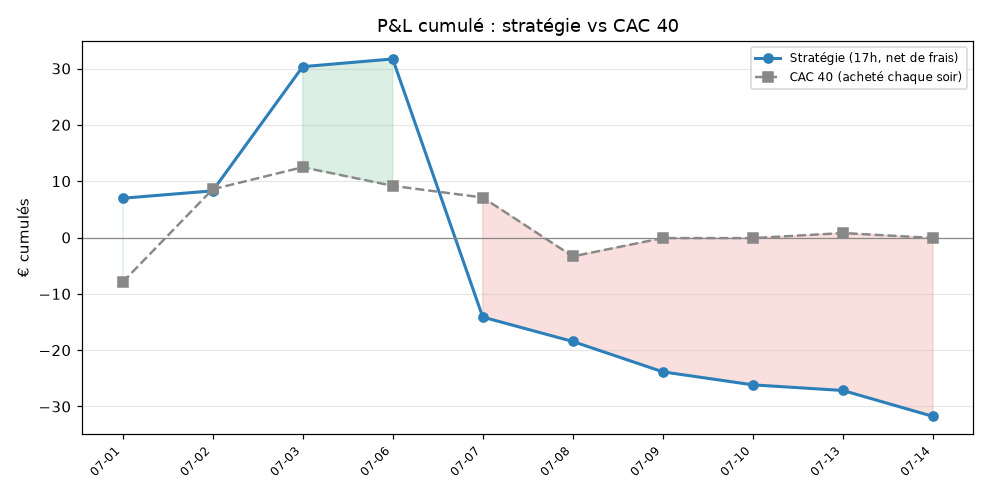
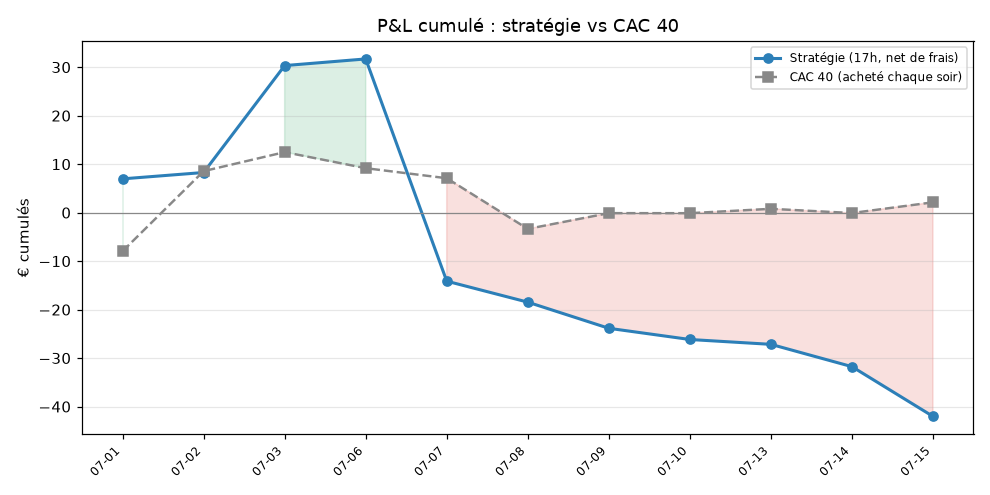
Analyse du 2026-07-15

diff --git a/reports/rapport_2026-07-15.md b/reports/rapport_2026-07-15.md
@@ -1,0 +1,117 @@
+# Rapport du Wednesday 15 July 2026
+
+### Évaluation des achats de la séance précédente
+
+**VRLA.PA — Verallia**  (acheté le 2026-07-14)
+- Prix d'entrée (clôture veille) : 20.38€
+- Revente à l'ouverture (09:00) : 🔴 20.26€  (-0.59%  soit -2.94€)
+- Revente 1re demi-heure (09:30) : 🔴 20.18€  (-0.98%  soit -4.91€)
+- Revente mi-journée (13:00) : 🔴 19.96€  (-2.06%  soit -10.30€)
+- Revente à 17h : 🔴 20.18€  (-0.98%  soit -4.91€)
+
+**LR.PA — Legrand**  (acheté le 2026-07-14)
+- Prix d'entrée (clôture veille) : 142.00€
+- Revente à l'ouverture (09:00) : 🟢 142.70€  (+0.49%  soit +2.46€)
+- Revente 1re demi-heure (09:30) : 🔴 141.15€  (-0.60%  soit -2.99€)
+- Revente mi-journée (13:00) : 🟢 142.10€  (+0.07%  soit +0.35€)
+- Revente à 17h : 🔴 141.05€  (-0.67%  soit -3.35€)
+
+**Total du portefeuille (somme des positions évaluées) :**
+- Ouverture : 🔴 -0.48€
+- 1re demi-heure : 🔴 -7.90€
+- Mi-journée : 🔴 -9.95€
+- 17h : 🔴 -8.26€
+
+### Sélection du soir (marche à blanc)
+
+_Séance parisienne calme et légèrement positive (CAC +0.23%), portée par un vent porteur venu de Wall Street ce soir (Nasdaq +1.16%, S&P +0.59%, VIX en repli à 16). Peu de flux acheteurs francs sur la place : quelques clôtures près des plus-hauts avec volume correct, mais la tape US verte doit rester un contexte, pas une thèse. Après une série de petites pertes overnight, je reste sélectif et modeste sur les tailles de conviction._
+
+**S30.PA — Solutions 30**  (conviction 54/100)
+- Achat papier : 500€ au cours ~17h de 0.58€
+- Catalyseur : Prolongation d'un flux acheteur propre au titre matérialisé par la meilleure clôture près du plus-haut de la shortlist avec le ratio de volume le plus élevé.
+- Raisonnement : S30 affiche le meilleur ratio de volume relatif de la shortlist (0.88x) combiné à une clôture au plus-haut (0.89) et une hausse mesurée du jour (+2.28%), sans être sur-étendu (5j +6.2%). Ce profil de force tranquille avec flux net acheteur est exactement le mécanisme recherché, indépendamment de la tape US. Le vent porteur du Nasdaq ne fait qu'ajouter au décor.
+- ⚠ Risque : Micro-cap très volatile (cours ~0.58€) où les mouvements overnight peuvent être erratiques ; le volume absolu reste modeste.
+
+**NK.PA — Imerys**  (conviction 49/100)
+- Achat papier : 500€ au cours ~17h de 22.14€
+- Catalyseur : Momentum de clôture au plus-haut (0.88) avec volume au-dessus de la médiane de la shortlist, dans un secteur matériaux distinct de S30.
+- Raisonnement : Imerys clôture près de son plus-haut (0.88) avec un volume relatif honorable (0.57x) et une progression saine (+2.03% jour, +6.54% sur 5j) sans excès parabolique. Le flux acheteur propre au titre est le principal argument, et le secteur matériaux offre une diversification nette par rapport à Solutions 30.
+- ⚠ Risque : Volume seulement modéré et valeur cyclique sensible aux nouvelles macro/Chine ; le signal est plus faible que le premier choix.
+
+_Aucun ordre réel n'a été passé. Simulation uniquement._
+
+### Tableau de bord — synthèse sur tout l'historique
+
+Positions évaluées : **17** (sur 19 enregistrées)
+
+| Scénario de sortie | P&L cumulé | Rendement moyen | Taux de réussite |
+|---|---:|---:|---:|
+| Ouverture (09:00) | 🟢 +1.58€ | +0.02% | 59% (10/17) |
+| 1re demi-heure (09:30) | 🔴 -24.49€ | -0.29% | 41% (7/17) |
+| Mi-journée (13:00) | 🔴 -32.71€ | -0.38% | 41% (7/17) |
+| 17h | 🔴 -25.02€ | -0.29% | 35% (6/17) |
+
+**Meilleure stratégie de sortie a posteriori : Ouverture (09:00)** (+1.58€ cumulés).
+
+Détail par scénario :
+- Ouverture (09:00) — meilleur : STLAP.PA (+1.63%, 2026-06-30) | pire : STMPA.PA (-3.33%, 2026-07-06)
+- 1re demi-heure (09:30) — meilleur : VRLA.PA (+3.53%, 2026-07-02) | pire : STMPA.PA (-4.18%, 2026-07-06)
+- Mi-journée (13:00) — meilleur : VRLA.PA (+4.05%, 2026-07-02) | pire : STMPA.PA (-5.51%, 2026-07-06)
+- 17h — meilleur : VRLA.PA (+4.66%, 2026-07-02) | pire : STMPA.PA (-7.45%, 2026-07-06)
+
+## Métriques ajustées du risque (scénario 17h, net de frais)
+
+_Basé sur 11 jour(s) évalué(s). Total net : -42.02€._
+
+| Métrique | Valeur | Lecture |
+|---|---:|---|
+| Sharpe (annualisé) | -5.22 | >1 bon, >2 excellent |
+| Sortino (annualisé) | -4.55 | pénalise la baisse |
+| Max drawdown | -73.72€ | pire creux cumulé |
+| Profit factor | 0.43 | gains/pertes, >1,5 solide |
+| Taux de réussite | 36% | jours gagnants |
+| Espérance / jour | -3.82€ | gain moyen par séance |
+| Gain moyen | 7.92€ | sur jours gagnants |
+| Perte moyenne | -10.53€ | sur jours perdants |
+
+**Significativité de l'alpha vs CAC 40 :**
+
+- Alpha moyen/jour : -0.496% (t-stat -0.93)
+- IC 95 % (bootstrap) : [-1.590% ; +0.402%]
+
+⚪ **Alpha non distinguable de zéro** (IC [-1.590% ; +0.402%] contient 0). Pas encore de preuve d'un edge — continue de mesurer.
+
+## Tableau de bord mensuel
+
+_Frais d'aller-retour estimés : 0.20% par position (P&L net au 17h)._
+
+| Mois | Jours | Ouverture | 9h30 | Midi | 17h (brut) | 17h (net) | Réussite 17h |
+|---|---:|---:|---:|---:|---:|---:|---:|
+| 2026-07 | 11 | 🟢 +1.58€ | 🔴 -24.49€ | 🔴 -32.71€ | 🔴 -25.02€ | 🔴 -42.02€ | 36% |
+
+**Alpha vs CAC 40** (même capital « acheté chaque soir ») :
+
+| Mois | Stratégie (ouv.) | CAC overnight | Alpha ouv. | Stratégie (17h) | CAC séance | Alpha 17h |
+|---|---:|---:|---:|---:|---:|---:|
+| 2026-07 | +1.58€ | -1.32€ | 🟢 +2.91€ | -25.02€ | +2.13€ | 🔴 -27.15€ |
+
+_Alpha positif = la sélection bat « acheter le CAC chaque soir ». C'est le vrai juge de la stratégie._
+
+### Détail du mois 2026-07 (jour par jour)
+
+- Meilleur jour : **2026-07-03** +24.05€ (DEC.PA+VRLA.PA)
+- Pire jour : **2026-07-07** -43.83€ (STMPA.PA+ACA.PA)
+
+| Date | Actions | Ouverture | 9h30 | Midi | 17h |
+|---|---|---:|---:|---:|---:|
+| 2026-07-01 | STLAP.PA+VCT.PA | 🟢 +9.70€ | 🟢 +2.14€ | 🟢 +7.36€ | 🟢 +8.97€ |
+| 2026-07-02 | RF.PA+ATE.PA | 🔴 -1.32€ | 🔴 -10.05€ | 🔴 -5.88€ | 🟢 +3.31€ |
+| 2026-07-03 | DEC.PA+VRLA.PA | 🟢 +5.67€ | 🟢 +14.15€ | 🟢 +21.99€ | 🟢 +24.05€ |
+| 2026-07-06 | FNAC.PA+BB.PA | 🔴 -1.56€ | 🟢 +2.53€ | 🟢 +3.25€ | 🟢 +3.37€ |
+| 2026-07-07 | STMPA.PA+ACA.PA | 🔴 -15.39€ | 🔴 -18.95€ | 🔴 -29.36€ | 🔴 -43.83€ |
+| 2026-07-08 | CA.PA | 🔴 -3.03€ | 🔴 -4.24€ | 🔴 -4.09€ | 🔴 -3.33€ |
+| 2026-07-09 | GTT.PA | 🟢 +3.61€ | 🔴 -4.90€ | 🔴 -4.39€ | 🔴 -4.39€ |
+| 2026-07-10 | SAN.PA | 🟢 +1.70€ | 🟢 +2.75€ | 🔴 -0.26€ | 🔴 -1.31€ |
+| 2026-07-13 | COFA.PA | 🟢 +2.23€ | 🟢 +2.23€ | 🟢 +0.32€ | 🟢 +0.00€ |
+| 2026-07-14 | ATE.PA | 🟢 +0.45€ | 🔴 -2.25€ | 🔴 -11.70€ | 🔴 -3.60€ |
+| 2026-07-15 | VRLA.PA+LR.PA | 🔴 -0.48€ | 🔴 -7.90€ | 🔴 -9.95€ | 🔴 -8.26€ |

diff --git a/reports/bilan_mensuel.md b/reports/bilan_mensuel.md
@@ -1,4 +1,4 @@
-# Bilan mensuel — mis à jour le 2026-07-14 17:06
+# Bilan mensuel — mis à jour le 2026-07-15 17:06
 
 ## Tableau de bord mensuel
 
@@ -6,13 +6,13 @@ _Frais d'aller-retour estimés : 0.20% par position (P&L net au 17h)._
 
 | Mois | Jours | Ouverture | 9h30 | Midi | 17h (brut) | 17h (net) | Réussite 17h |
 |---|---:|---:|---:|---:|---:|---:|---:|
-| 2026-07 | 10 | 🟢 +2.06€ | 🔴 -16.59€ | 🔴 -22.76€ | 🔴 -16.76€ | 🔴 -31.76€ | 40% |
+| 2026-07 | 11 | 🟢 +1.58€ | 🔴 -24.49€ | 🔴 -32.71€ | 🔴 -25.02€ | 🔴 -42.02€ | 36% |
 
 **Alpha vs CAC 40** (même capital « acheté chaque soir ») :
 
 | Mois | Stratégie (ouv.) | CAC overnight | Alpha ouv. | Stratégie (17h) | CAC séance | Alpha 17h |
 |---|---:|---:|---:|---:|---:|---:|
-| 2026-07 | +2.06€ | -1.61€ | 🟢 +3.68€ | -16.76€ | -0.08€ | 🔴 -16.68€ |
+| 2026-07 | +1.58€ | -1.32€ | 🟢 +2.91€ | -25.02€ | +2.13€ | 🔴 -27.15€ |
 
 _Alpha positif = la sélection bat « acheter le CAC chaque soir ». C'est le vrai juge de la stratégie._
 
@@ -33,3 +33,4 @@ _Alpha positif = la sélection bat « acheter le CAC chaque soir ». C'est le vr
 | 2026-07-10 | SAN.PA | 🟢 +1.70€ | 🟢 +2.75€ | 🔴 -0.26€ | 🔴 -1.31€ |
 | 2026-07-13 | COFA.PA | 🟢 +2.23€ | 🟢 +2.23€ | 🟢 +0.32€ | 🟢 +0.00€ |
 | 2026-07-14 | ATE.PA | 🟢 +0.45€ | 🔴 -2.25€ | 🔴 -11.70€ | 🔴 -3.60€ |
+| 2026-07-15 | VRLA.PA+LR.PA | 🔴 -0.48€ | 🔴 -7.90€ | 🔴 -9.95€ | 🔴 -8.26€ |

diff --git a/reports/metriques.md b/reports/metriques.md
@@ -2,22 +2,22 @@
 
 ## Métriques ajustées du risque (scénario 17h, net de frais)
 
-_Basé sur 10 jour(s) évalué(s). Total net : -31.76€._
+_Basé sur 11 jour(s) évalué(s). Total net : -42.02€._
 
 | Métrique | Valeur | Lecture |
 |---|---:|---|
-| Sharpe (annualisé) | -4.53 | >1 bon, >2 excellent |
-| Sortino (annualisé) | -3.92 | pénalise la baisse |
-| Max drawdown | -63.46€ | pire creux cumulé |
-| Profit factor | 0.50 | gains/pertes, >1,5 solide |
-| Taux de réussite | 40% | jours gagnants |
-| Espérance / jour | -3.18€ | gain moyen par séance |
+| Sharpe (annualisé) | -5.22 | >1 bon, >2 excellent |
+| Sortino (annualisé) | -4.55 | pénalise la baisse |
+| Max drawdown | -73.72€ | pire creux cumulé |
+| Profit factor | 0.43 | gains/pertes, >1,5 solide |
+| Taux de réussite | 36% | jours gagnants |
+| Espérance / jour | -3.82€ | gain moyen par séance |
 | Gain moyen | 7.92€ | sur jours gagnants |
-| Perte moyenne | -10.58€ | sur jours perdants |
+| Perte moyenne | -10.53€ | sur jours perdants |
 
 **Significativité de l'alpha vs CAC 40 :**
 
-- Alpha moyen/jour : -0.421% (t-stat -0.72)
-- IC 95 % (bootstrap) : [-1.539% ; +0.594%]
+- Alpha moyen/jour : -0.496% (t-stat -0.93)
+- IC 95 % (bootstrap) : [-1.590% ; +0.402%]
 
-⚪ **Alpha non distinguable de zéro** (IC [-1.539% ; +0.594%] contient 0). Pas encore de preuve d'un edge — continue de mesurer.
+⚪ **Alpha non distinguable de zéro** (IC [-1.590% ; +0.402%] contient 0). Pas encore de preuve d'un edge — continue de mesurer.
